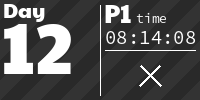
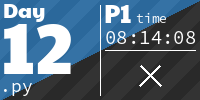
2025 Day 11 part 1 and day 12

diff --git a/2025/11-Reactor.py b/2025/11-Reactor.py
@@ -1,0 +1,24 @@
+#!/usr/bin/env python3
+# Copyright (C) 2025 Joe Baker (JoeBlakeB)
+# Advent of Code 2025 - Day 11: Reactor
+# Usage:
+#     python 2025/11-Reactor.py < 2025/inputs/11.txt
+
+import sys
+
+INPUT = list(iter(lambda: next(sys.stdin).rstrip("\n"), ""))
+NODES = {n.split(": ")[0]: n.split(": ")[1].split(" ") for n in INPUT}
+
+def getRoutesTo(current: str, dest: str, remainingNodes: dict[str, list[str]], requiredRemaining: list[str] = []) -> int:
+    if current == dest:
+        return not requiredRemaining
+    if current not in remainingNodes:
+        return 0
+    return sum([getRoutesTo(next,
+                            dest,
+                            {r: rv for r, rv in remainingNodes.items() if r != current},
+                            [a for a in requiredRemaining if a != current]
+                ) for next in remainingNodes[current]])
+
+print(getRoutesTo("you", "out", NODES))
+print(getRoutesTo("svr", "out", NODES, ["fft", "dac"]))

diff --git a/2025/12-Christmas-Tree-Farm.py b/2025/12-Christmas-Tree-Farm.py
@@ -1,0 +1,22 @@
+#!/usr/bin/env python3
+# Copyright (C) 2025 Joe Baker (JoeBlakeB)
+# Advent of Code 2025 - Day 12: Christmas Tree Farm
+# Usage:
+#     python 2025/12-Christmas-Tree-Farm.py < 2025/inputs/12.txt
+
+import sys
+
+regions = ["#"]
+while any("#" in line for line in regions):
+    regions = list(iter(lambda: next(sys.stdin).rstrip("\n"), ""))
+
+regionSizes = []
+regionPresentCounts = []
+for region in regions:
+    size, gifts = region.split(": ")
+    w, h = size.split("x")
+    regionSizes.append(int(w) // 3 * int(h) // 3)
+    regionPresentCounts.append([int(x) for x in gifts.split(" ")])
+
+print("regions fit unorganised presents i guess?",
+      sum(1 if size >= sum(gifts) else 0 for size, gifts in zip(regionSizes, regionPresentCounts)))

diff --git a/README.md b/README.md
@@ -3,7 +3,7 @@
 </h1>
 
 ![](https://img.shields.io/badge/Total_Stars-191_⭐-blue)
-![](https://img.shields.io/badge/Total_Lines_of_Code-5389-blue)
+![](https://img.shields.io/badge/Total_Lines_of_Code-5416-blue)
 
 <!-- AOC TILES BEGIN -->
 <h1 align="center">
@@ -39,10 +39,10 @@
 <a href="2025/10-Factory.py">
   <img src=".github/AoCTiles/images/2025/10.png" width="161px" style="style='min-width: calc(20 % - 4px);'">
 </a>
-<a href="None">
+<a href="2025/11-Reactor.py">
   <img src=".github/AoCTiles/images/2025/11.png" width="161px" style="style='min-width: calc(20 % - 4px);'">
 </a>
-<a href="None">
+<a href="2025/12-Christmas-Tree-Farm.py">
   <img src=".github/AoCTiles/images/2025/12.png" width="161px" style="style='min-width: calc(20 % - 4px);'">
 </a>
 <h1 align="center">
